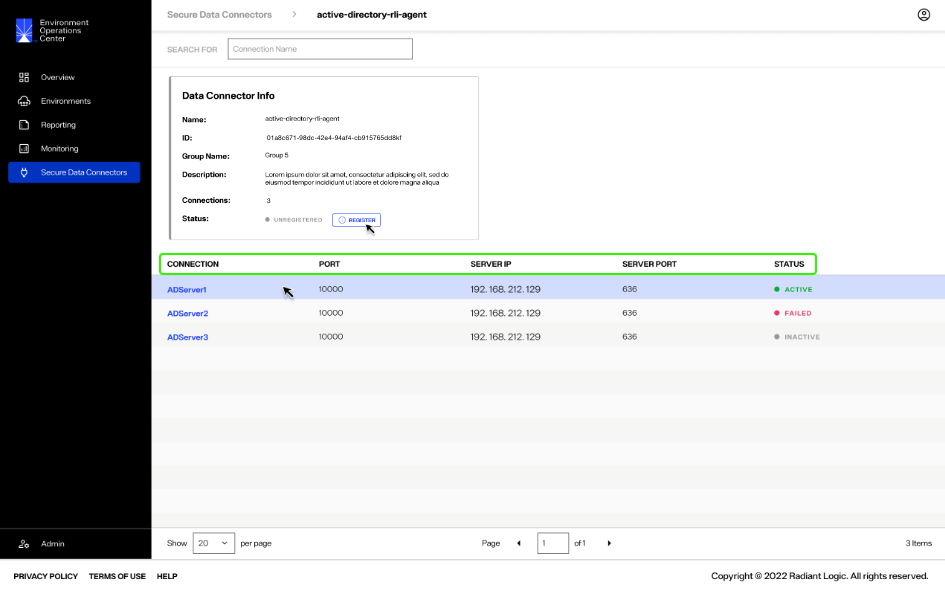
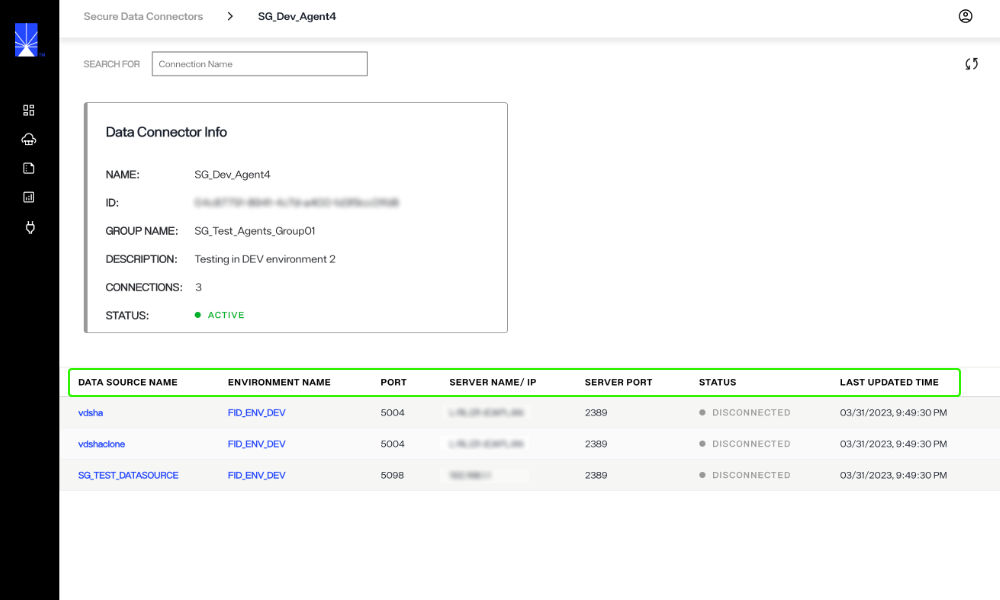
update sdc screenshots

diff --git a/documentation/environment-operations-center-guide/secure-data-connectors/manage-data-connectors.md b/documentation/environment-operations-center-guide/secure-data-connectors/manage-data-connectors.md
@@ -17,31 +17,31 @@ All of the operations to manage secure data connectors are available in the **Op
 
 The name, group, and description of a data connector can be updated. To edit connector details, select **Edit** from the associated **Options** (**...**) dropdown.
 
-![image description](images/manage-select-edit.png)
+![image description](images/select-edit.png)
 
 This opens the *Edit Data Connector** dialog. In the provided name, group, and description fields, update the connector details as needed. Select **Save** to update the connector details.
 
 The connector details will update on the *Secure Data Connectors* home screen and in the connector details section.
 
-![image description](images/manage-update-info.png)
+![image description](images/update-info.png)
 
 ## Enable or disable a connector
 
 To disable a data connector, select **Disable** from the **Options** (**...**) dropdown.
 
-![image description](images/manage-disable.png)
+![image description](images/disable.png)
 
 The connector status will update to "Inactive" and all associated connections will be disabled.
 
-![image description](images/manage-inactive.png)
+![image description](images/inactive.png)
 
 To reactivate a data connector, select **Enable** from the **Options** (**...**) dropdown.
 
-![image description](images/manage-enable.png)
+![image description](images/enable.png)
 
 The connector status will update to "Active" and all associated connections will be enabled.
 
-![image description](images/manage-active.png)
+![image description](images/active.png)
 
 ## Delete a data connector
 
@@ -49,17 +49,15 @@ To delete a data connector, select **Delete** from the **Options** (**...**) dro
 
 [!warning] Deleting a data connector is a permanent action and cannot be undone.
 
-![image description](images/manage-select-delete.png)
+![image description](images/delete.png)
 
 A confirmation dialog will appear asking you to confirm that you would like to delete the selected data connector. Select **Delete** to proceed and delete the connector.
 
 If you would like to keep the connector, select **Cancel** to exit out of the workflow to delete the connector.
 
-![image description](images/manage-delete.png)
+![image description](images/confirm-delete.png)
 
-If the connector is successfully delete, you will receive a confirmation message on the *Secure Data Connectors* home screen and the connector will no longer be available in the lits of connectors.
-
-![image description](images/manage-delete-success.png)
+If the connector is successfully deleted, you will receive a confirmation message on the *Secure Data Connectors* home screen and the connector will no longer be available in the lits of connectors.
 
 ## Next steps
 

diff --git a/documentation/environment-operations-center-guide/secure-data-connectors/data-connectors-overview.md b/documentation/environment-operations-center-guide/secure-data-connectors/data-connectors-overview.md
@@ -11,7 +11,7 @@ Secure data connectors allow data to flow from your on premises or private cloud
 
 To navigate to the *Secure Data Connectors* home screen, select **Secure Data Connectors** (![image description](images/agent-icon.png)) from the left navigation.
 
-![image description](images/left-nav.png)
+![image description](../images/secure-data-connectors.png)
 
 ## Secure data connector home screen
 
@@ -43,7 +43,7 @@ Data connector details can be accessed in two ways. One way is to select the dat
 
 Another way to access data connector details is to select **View Details** from the **Options** (**...**) dropdown menu of the corresponding data connector.
 
-![image description](images/select-view-details.png)
+![image description](images/view-details.png)
 
 ### Data connector info
 
@@ -66,11 +66,13 @@ All of the on-premise or cloud connections made to the data connector are listed
 
 | Connection details | Description |
 | ------------------ | ----------- |
-| Connection | The name of the on-premise or cloud environment connected to the data connector |
+| Data Source Name | The name of the on-premise or cloud environment connected to the data connector. |
+| Environment Name | The name of the Env Opes Center environment the connector is associated with. |
 | Port | The high port where the connection is initiated. |
-| Server IP | The IP of the on-prem or cloud data source that has been connected. |
+| Server Name/IP | The IP of the on-prem or cloud data source that has been connected. |
 | Server Port | The port of the on-prem or cloud data source where the connection was made. |
-| Status | Indicates if the connection "Failed" or is "Active" or "Inactive" |
+| Status | Indicates if the connection "Failed" or is "Active" or "Inactive". |
+| Last Updated Time | The date and time when the connector was last updated. |
 
 ![image description](images/connections.png)
 

diff --git a/documentation/environment-operations-center-guide/secure-data-connectors/add-data-connector.md b/documentation/environment-operations-center-guide/secure-data-connectors/add-data-connector.md
@@ -30,18 +30,18 @@ In the *New Data Connector* dialog, enter the data connector information in the 
 | Data Connector Info | Description |
 | ------------------- | ----------- |
 | Name | Provide a name that is relevant to the network being connected to. |
-| Group | A minimum of two data connectors should be created per network environment to form a group. Groups provide failover and load balancing for the network. The group field is an editable dropdown, so you can either select an existing group or add a new group. | 
+| Group | A minimum of two data connectors should be created per network environment to form a group. Groups provide failover and load balancing for the network. Either select a group from the **Group Name** dropdown list or select **New Group** to add a new group. | 
 | Description | The description field is optional but is recommended to provide any details that are relevant about the network. This helps with maintaining data connectors. |
 
 Once you have completed the required fields in the *Data Connector Info* section, select **Save** to add the new connector.
 
-![image description](images/add-save.png)
+![image description](images/save-connector.png)
 
 If the data connector is successfully created, it will appear in the list of available data connectors on the *Secure Data Connectors* home screen.
 
 The *Status* of the new data connector will display as "Inactive". A connection needs to be established between a new data connector and the on-prem or cloud network for the connector to become "Active". For details on deploying the secure data connector client, see the [deploy a secure data connector client](deploy-sdc-client.md) guide.
 
-![image description](images/add-new-connector.png)
+![image description](images/new-connector-created.png)
 
 ## Next steps
 
